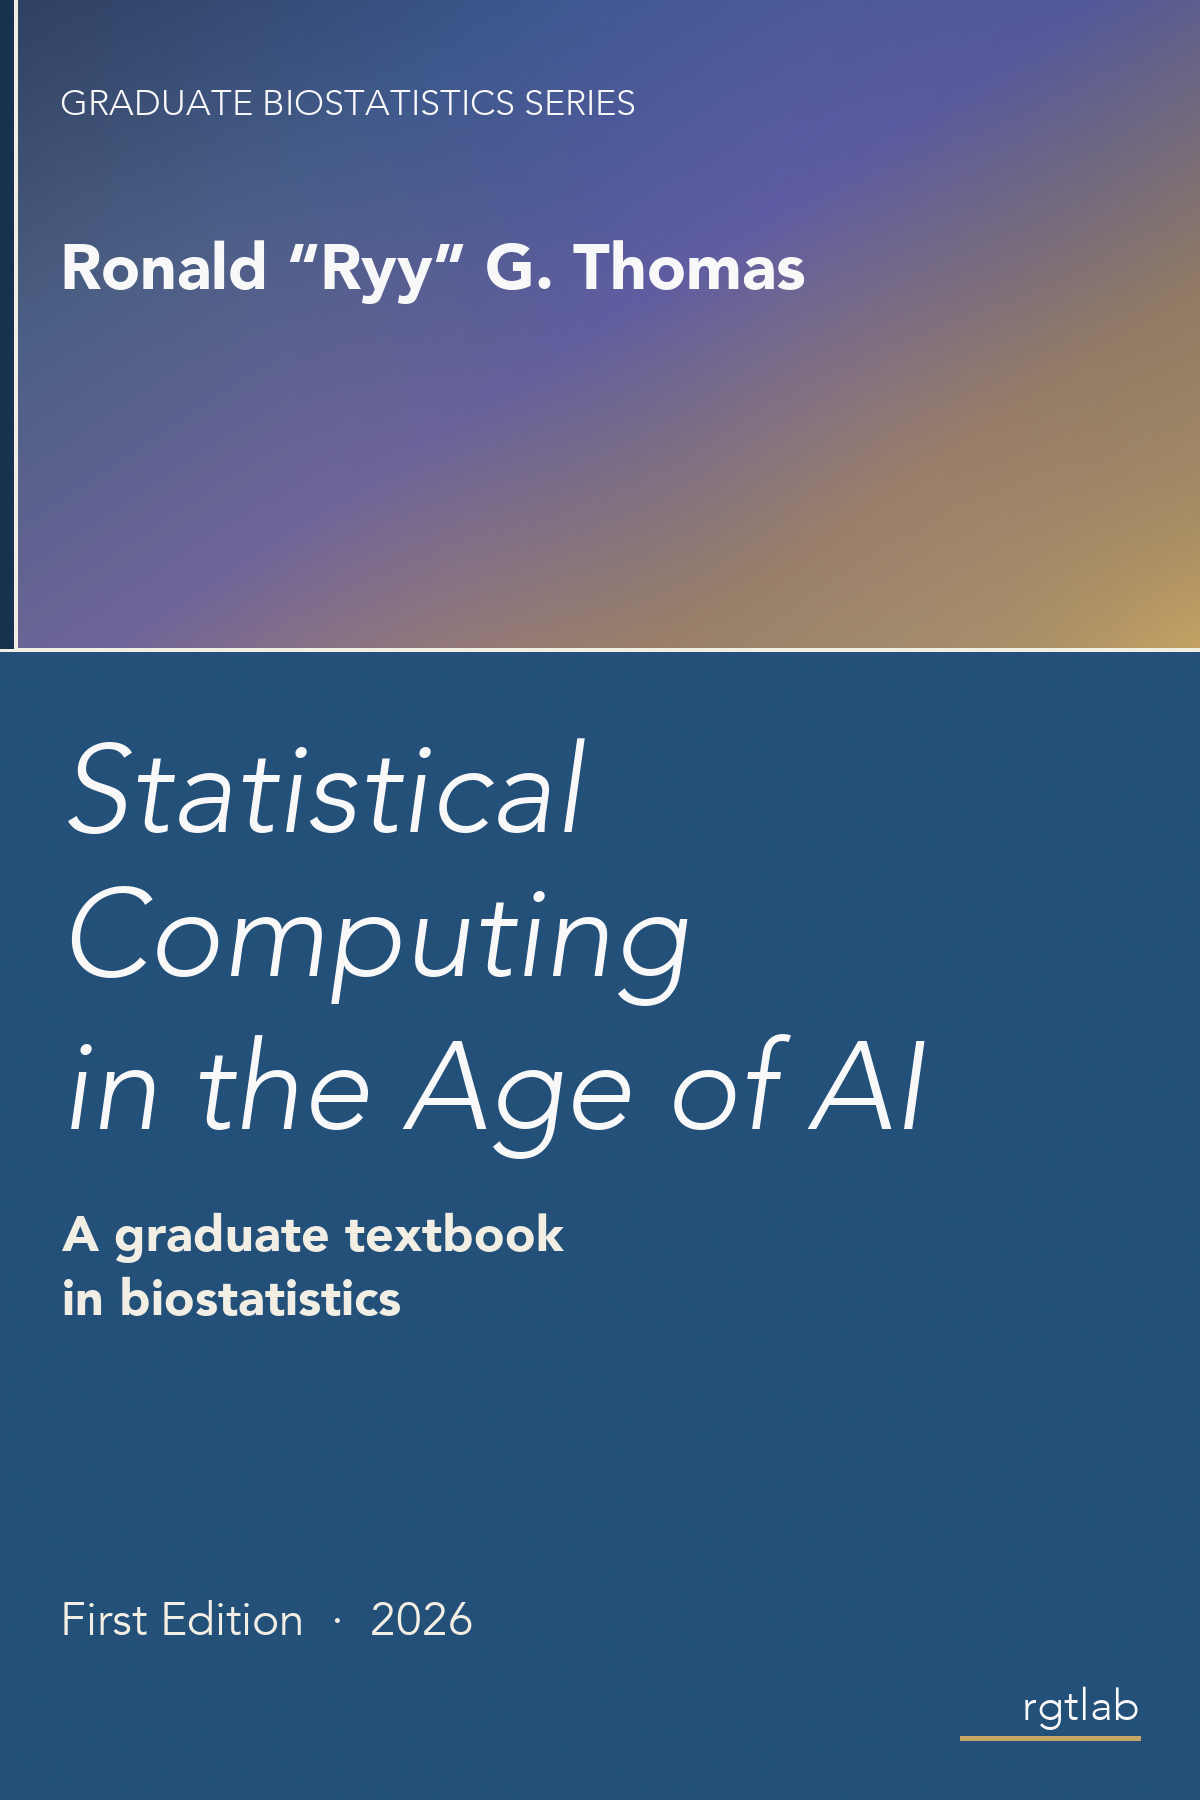
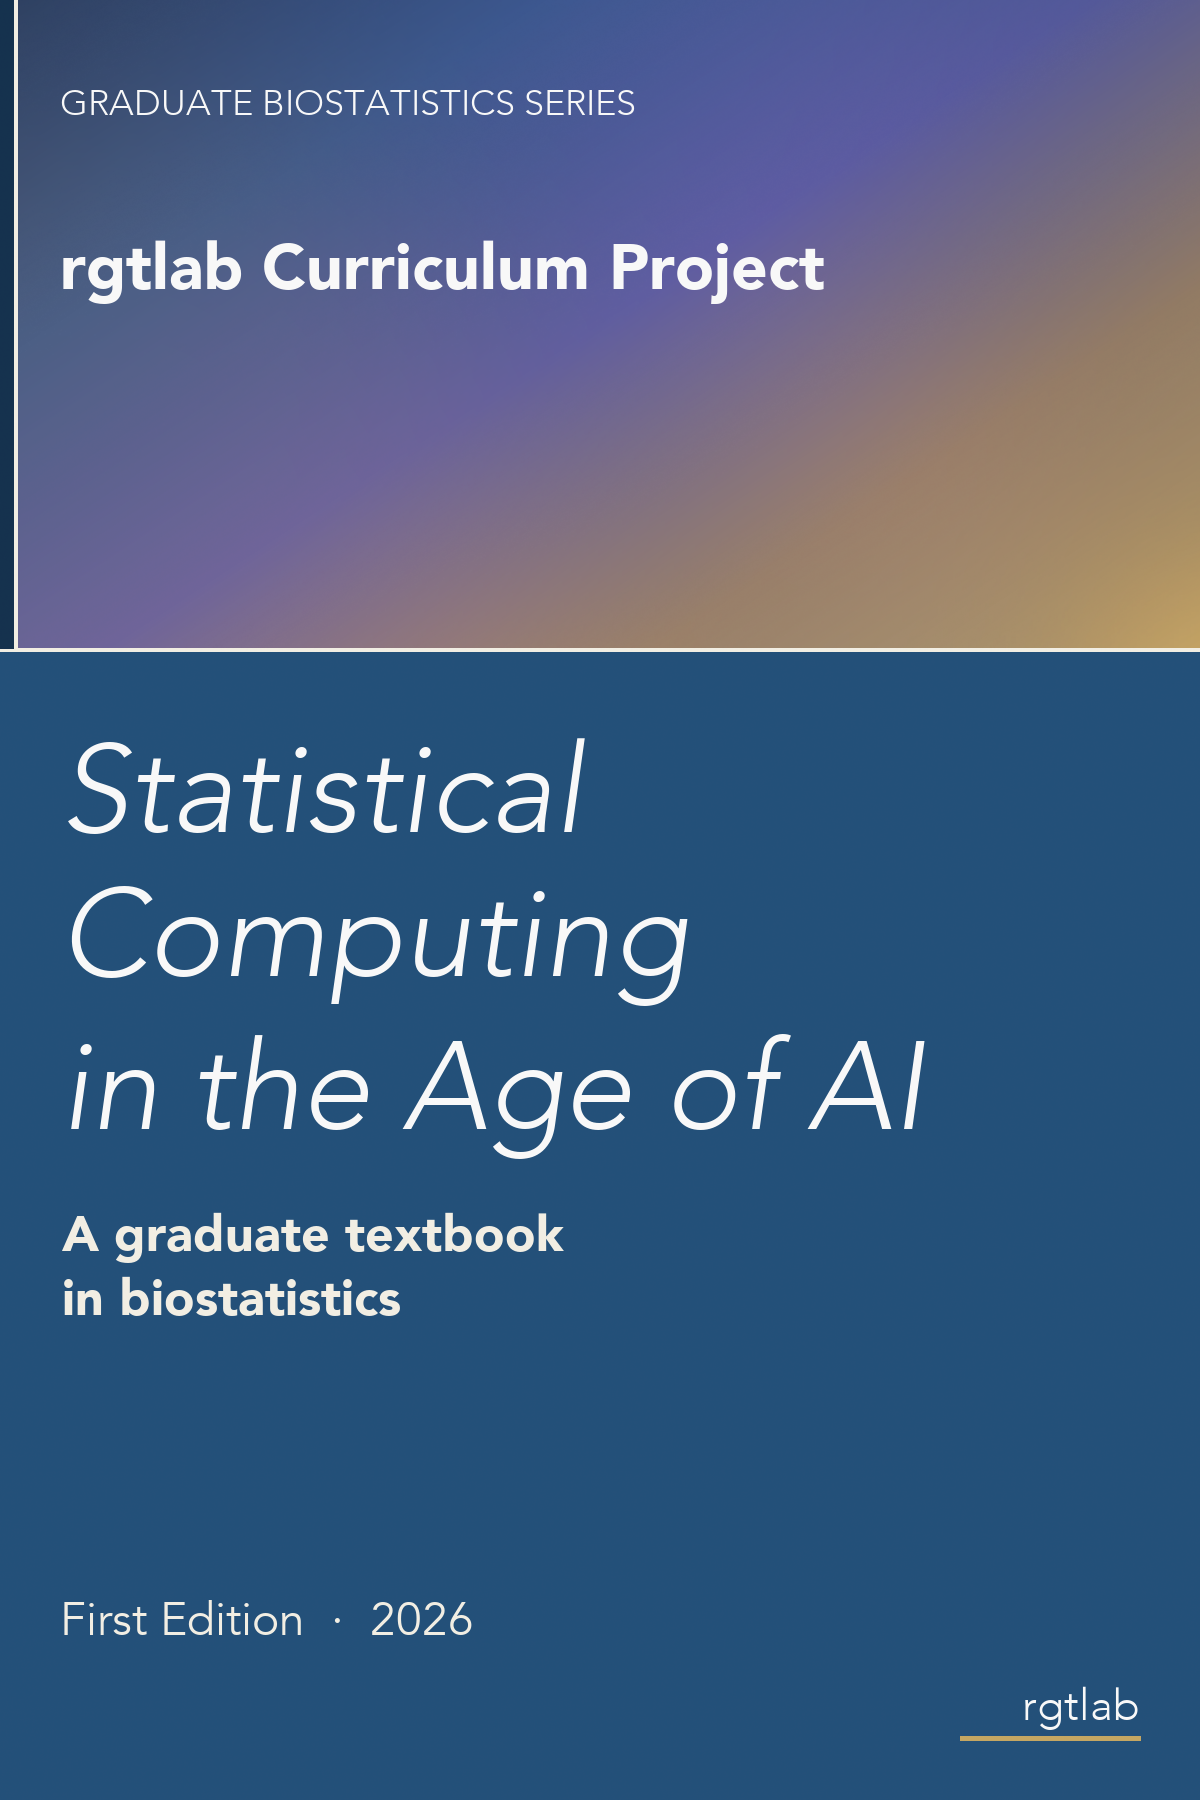
Auto-backup: 2026-04-29 13:42:17

Changed region(s): [[0.0617, 0.1244, 0.6783, 0.1867]]

diff --git a/images/build-cover.py b/images/build-cover.py
@@ -151,7 +151,7 @@ def build():
               series_fnt, WHITE)
 
     author_fnt = font('avenir-medium', 64)
-    authors = ['Ronald “Ryy” G. Thomas']
+    authors = ['rgtlab Curriculum Project']
     y = 240
     for line in authors:
         draw_text(draw, (60, y), line, author_fnt, WHITE)
